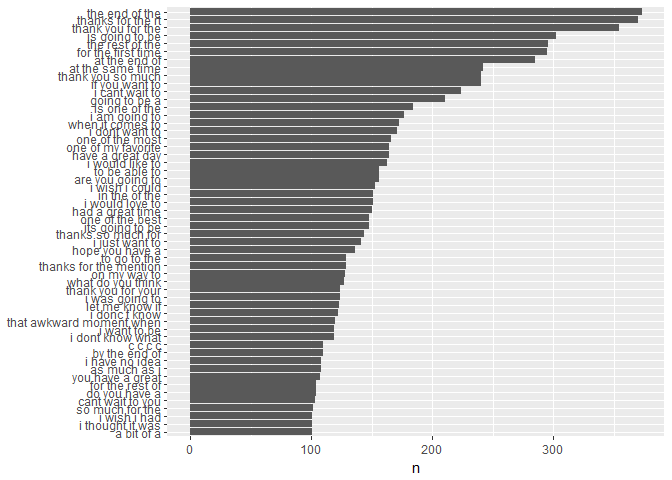
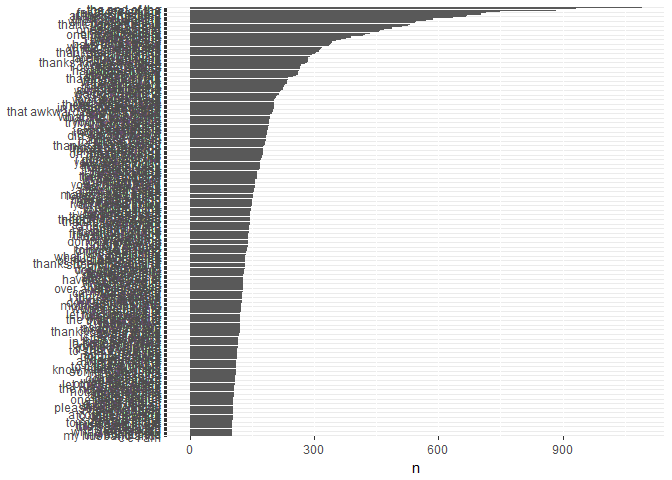
Fix fourgram error. Reduce fourgram sample size.

diff --git a/02_Task_Script.md b/02_Task_Script.md
@@ -354,7 +354,7 @@ trigram_cover_90 <- trigram_repo %>%
 nrow(trigram_cover_90)
 ```
 
-    ## [1] 6602889
+    ## [1] 6589699
 
 trigram distribution
 
@@ -378,15 +378,15 @@ Create Trigrams by source using `unnest_tokens`
 
 ``` r
 blogs_fourgrams <- clean_blogs  %>%
-  sample_n(., nrow(clean_blogs)*0.05) %>%
+  sample_n(., nrow(clean_blogs)*0.20) %>%
   unnest_tokens(fourgram, text, token = "ngrams", n = 4)
 
 news_fourgrams <- clean_news  %>%
-  sample_n(., nrow(clean_news)*0.10) %>%
+  sample_n(., nrow(clean_news)*0.20) %>%
   unnest_tokens(fourgram, text, token = "ngrams", n = 4)
 
 twitter_fourgrams <- clean_twitter  %>%
-  sample_n(., nrow(clean_twitter)*0.10) %>%
+  sample_n(., nrow(clean_twitter)*0.20) %>%
   unnest_tokens(fourgram, text, token = "ngrams", n = 4)
 ```
 
@@ -411,7 +411,7 @@ fourgram_cover_90 <- fourgram_repo %>%
 nrow(fourgram_cover_90)
 ```
 
-    ## [1] 3754614
+    ## [1] 9835480
 
 Fourgram distribution
 
@@ -434,7 +434,7 @@ end <- Sys.time()
 (run_time <- end - start)
 ```
 
-    ## Time difference of 22.07607 mins
+    ## Time difference of 55.47961 mins
 
 ``` r
 ###############
